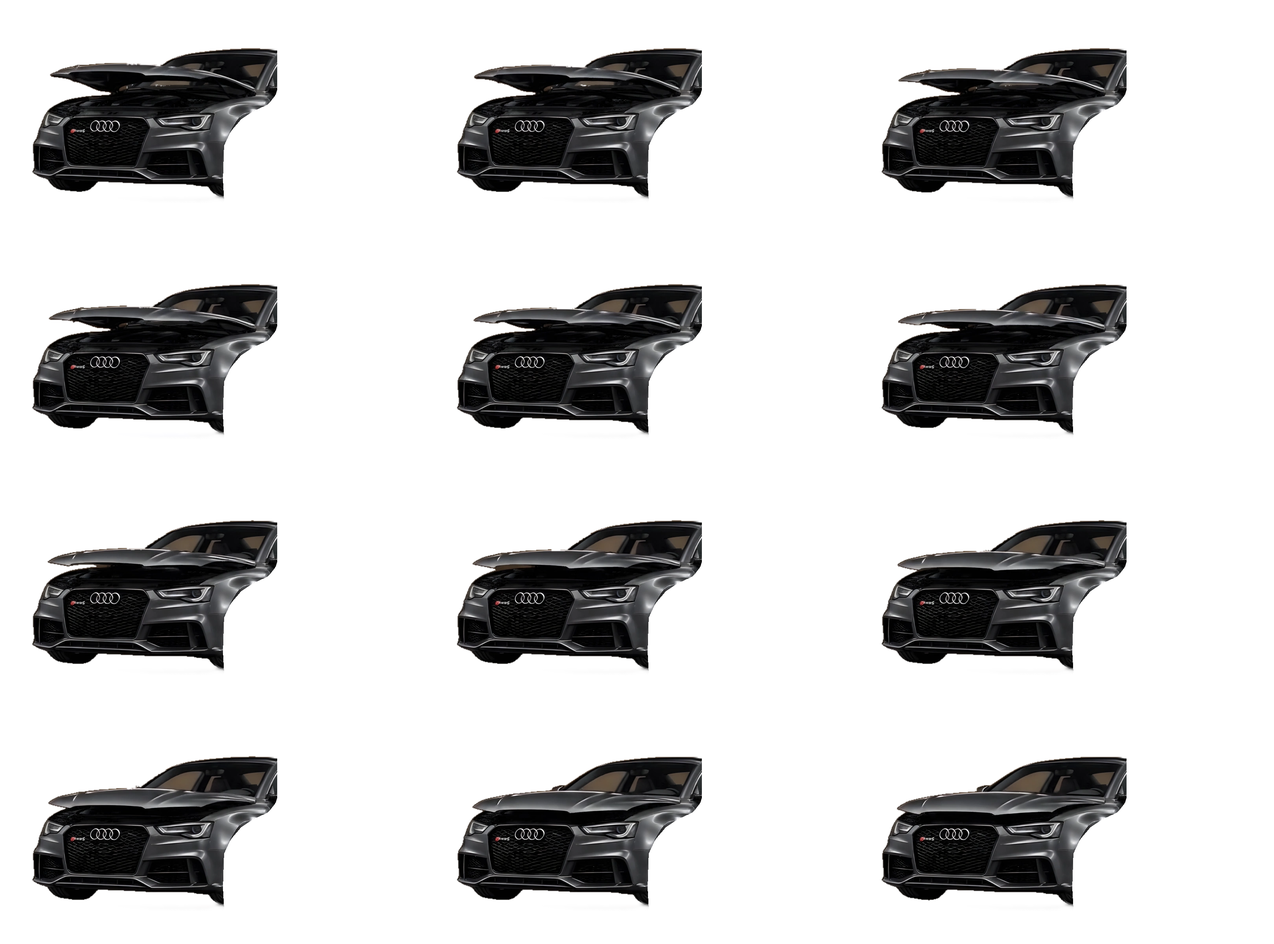
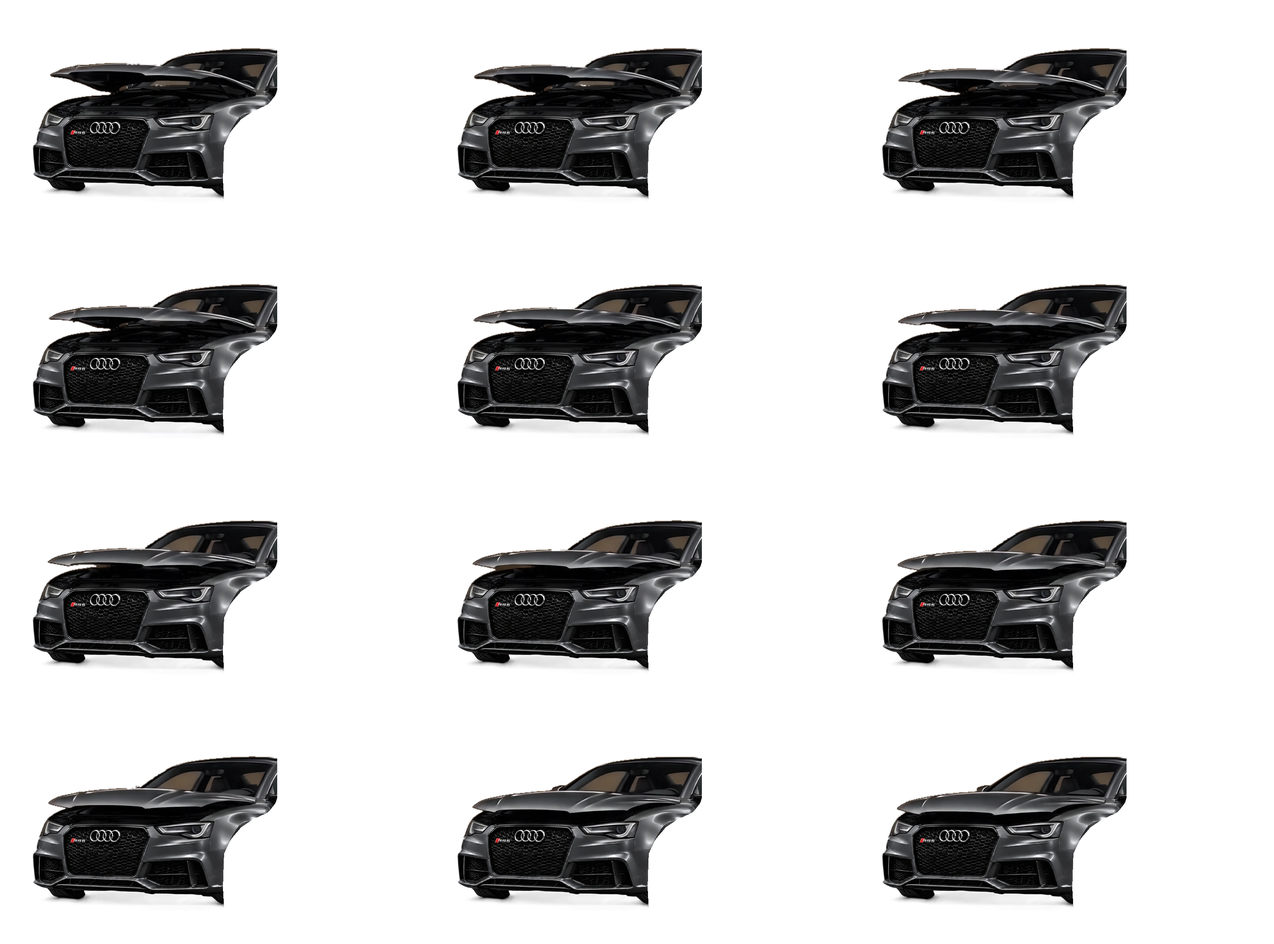
Restore original car details, reflective floor and desktop scale
Replace distorted video grille, RS5 badge, Audi rings and bumper pixels with the original photographic details. Repair the door panel and retain recorded hood geometry, smoke and sequential lights. Recover the old studio floor and remove the desktop size cap.

Validated 57 hood and 24 hero checks, original grille pixel comparison, floor transparency/stability, five viewport previews and delivery packaging.

diff --git a/Source/app.js b/Source/app.js
@@ -189,8 +189,9 @@
     const settled = heroLightsPlayed || reduceMotion();
     return `<div class="hero-visual" aria-hidden="true">
       <div class="hero-car rs5-real-hero ${settled ? 'lights-on' : 'lights-pending hood-loading'}" id="hero-car" data-phase="${settled ? 'complete' : 'loading'}" data-frame="poster">
-        <img class="rs5-poster" src="assets/car-hood-closed.webp?v=20261025-led-headlights" width="1080" height="600" alt="" fetchpriority="high" decoding="async">
-        <video class="rs5-source" id="rs5SourceVideo" data-src="assets/car-hood-animation.mp4?v=20261025-led-headlights" muted playsinline preload="none" tabindex="-1"></video>
+        <img class="rs5-floor" src="assets/car-floor.webp?v=20261025-restored-studio" width="1080" height="600" alt="" decoding="async">
+        <img class="rs5-poster" src="assets/car-hood-closed.webp?v=20261025-restored-studio" width="1080" height="600" alt="" fetchpriority="high" decoding="async">
+        <video class="rs5-source" id="rs5SourceVideo" data-src="assets/car-hood-animation.mp4?v=20261025-restored-studio" muted playsinline preload="none" tabindex="-1"></video>
         <canvas id="rs5HeroCanvas" width="1080" height="600" class="rs5-canvas"></canvas>
         <canvas width="1080" height="840" class="rs5-smoke"></canvas>
       </div>
@@ -211,9 +212,9 @@
       heroRenderer = window.WHHood?.create({
         canvas: $('.rs5-canvas', car), smokeCanvas: $('.rs5-smoke', car), video: $('.rs5-source', car),
         frames: {
-          led: 'assets/car-led.webp?v=20261025-led-headlights', ledAt: 2.15, headlightsAt: 2.85,
-          base: 'assets/car-studio-base.webp?v=20261025-led-headlights',
-          sources: [1,2,3,4].map((part) => `assets/car-hood-frames-${part}.webp?v=20261025-led-headlights`),
+          led: 'assets/car-led.webp?v=20261025-restored-studio', ledAt: 2.15, headlightsAt: 2.85,
+          base: 'assets/car-studio-base.webp?v=20261025-restored-studio',
+          sources: [1,2,3,4].map((part) => `assets/car-hood-frames-${part}.webp?v=20261025-restored-studio`),
           width: 1080, height: 600, columns: 3, perSheet: 12, count: 48, fps: 24
         },
         onPhase: (phase) => {

diff --git a/Source/styles.css b/Source/styles.css
@@ -148,6 +148,8 @@ html[dir=ltr] .hero{background-image:radial-gradient(ellipse 58% 55% at 68% 52%,
 .hero-visual{position:relative;z-index:1;min-width:0;direction:ltr}
 .hero-visual::before{content:"";position:absolute;inset:-18% -14% -8%;z-index:0;pointer-events:none;background:radial-gradient(ellipse 44% 34% at 52% 38%,rgba(242,195,134,.36) 0%,rgba(204,142,82,.22) 38%,rgba(132,82,44,.08) 68%,transparent 88%),radial-gradient(ellipse 66% 52% at 50% 48%,rgba(178,116,64,.30) 0%,rgba(110,66,36,.15) 54%,transparent 82%),radial-gradient(ellipse 74% 18% at 51% 84%,rgba(198,138,80,.18) 0%,transparent 72%);filter:blur(10px);transform:translateZ(0)}
 .hero-car{position:relative;z-index:1;width:100%;max-width:520px;margin:0 auto;aspect-ratio:720/400;isolation:isolate;user-select:none;pointer-events:none}
+.rs5-floor{position:absolute;inset:0;z-index:-1;width:100%;height:100%;display:block;pointer-events:none}
+@media (min-width:1101px){.hero-car{width:110%;max-width:none;margin-inline:-5%}}
 .hero-car::before{content:"";position:absolute;inset:0;z-index:-1;pointer-events:none;background:radial-gradient(ellipse 42% 5% at 49% 82%,rgba(5,2,0,.48),rgba(5,2,0,.18) 58%,transparent 100%),radial-gradient(ellipse 10% 2% at 58% 83%,rgba(0,0,0,.5),transparent 100%),radial-gradient(ellipse 10% 2% at 15% 80%,rgba(0,0,0,.4),transparent 100%),radial-gradient(ellipse 7% 2% at 86% 76%,rgba(0,0,0,.4),transparent 100%);filter:blur(3px)}
 .hero-car .rs5-poster{position:relative;width:100%;height:100%;max-width:none;display:block;transform:none;opacity:1}
 .rs5-canvas{position:absolute;inset:0;width:100%;height:100%;display:block;transform:none;opacity:1}
@@ -173,6 +175,7 @@ html[dir=rtl] .hero-specialism{justify-content:flex-end}
 .brand-line .lbl{letter-spacing:0;text-transform:none;font-family:var(--f-body);color:var(--muted);font-style:normal;font-weight:600}
 @media (max-width:1100px) and (min-width:761px){
   .hero-grid{padding-inline:28px;grid-template-columns:minmax(0,1fr) minmax(0,1.1fr)}
+  .hero-car{max-width:none}
   .hero h1{font-size:36px}
 }
 @media (max-width:760px){

diff --git a/Source/index.html b/Source/index.html
@@ -10,13 +10,13 @@
 <link rel="preconnect" href="https://fonts.googleapis.com">
 <link rel="preconnect" href="https://fonts.gstatic.com" crossorigin>
 <link rel="stylesheet" href="https://fonts.googleapis.com/css2?family=IBM+Plex+Mono:wght@400;500;600&family=IBM+Plex+Sans+Arabic:wght@400;500;600;700&display=swap">
-<link rel="stylesheet" href="styles.css?v=20261025-led-headlights">
+<link rel="stylesheet" href="styles.css?v=20261025-restored-studio">
 </head>
 <body>
 <div id="app"><noscript>مركز وائل حداد لصيانة المركبات الألمانية · البيادر، المنطقة الصناعية، مقابل أدوية الحكمة · 0795866455 · 0790984614</noscript></div>
 <script src="data.js"></script>
-<script src="hood-motion.js?v=20261025-led-headlights"></script>
-<script src="app.js?v=20261025-led-headlights"></script>
+<script src="hood-motion.js?v=20261025-restored-studio"></script>
+<script src="app.js?v=20261025-restored-studio"></script>
 <script src="admin.js"></script>
 </body>
 </html>

diff --git a/Source/tools/render-car-frames.py b/Source/tools/render-car-frames.py
@@ -36,6 +36,21 @@ sheet = Image.open(reference_path).convert('RGBA')
 if sheet.size != (size[0]*reference['columns'], size[1]*reference['rows']):
     raise ValueError('Reference atlas dimensions do not match calibration')
 
+def source_frame(index):
+    x = (index % reference['columns'])*size[0]
+    y = (index // reference['columns'])*size[1]
+    return sheet.crop((x, y, x+size[0], y+size[1]))
+
+# The recorded grille/text changes shape in the footage. Restore the original
+# photographic fascia, while leaving the hood, engine and lamps untouched.
+fascia = Image.new('L', size)
+ImageDraw.Draw(fascia).polygon([tuple(point) for point in cal['fascia_polygon']], fill=255)
+fascia = fascia.filter(ImageFilter.GaussianBlur(cal['fascia_feather_px']))
+# Transfer only the broad positive light bloom, not the video's grille lines.
+beam = ImageChops.subtract(source_frame(47).convert('RGB'), source_frame(46).convert('RGB'))
+beam = beam.filter(ImageFilter.GaussianBlur(cal['beam_blur_px']))
+body_lit = Image.merge('RGBA', (*ImageChops.add(body.convert('RGB'), beam).split(), body.getchannel('A')))
+
 # Preserve the complete recorded mechanism in one camera coordinate system.
 # Only the join to the photographic door/wheel/rear body is feathered.
 front = Image.new('L', size)
@@ -46,10 +61,9 @@ empty = Image.new('RGBA', size)
 base = Image.composite(empty, body, ownership)
 frames, motion = [], []
 for index in range(cal['count']):
-    x = (index % reference['columns'])*size[0]
-    y = (index // reference['columns'])*size[1]
-    native = sheet.crop((x, y, x+size[0], y+size[1]))
+    native = source_frame(index)
     combined = Image.composite(native, body, front)
+    combined = Image.composite(body_lit if index == cal['count']-1 else body, combined, fascia)
     # Disjoint pixel ownership lets transparent recorded gaps clear the closed
     # photograph underneath, rather than revealing a duplicate bonnet.
     overlay = Image.composite(combined, empty, ownership)

diff --git a/Source/MAINTENANCE-AR.md b/Source/MAINTENANCE-AR.md
@@ -98,28 +98,29 @@ bash Source/tools/package-store.sh
 
 الأسماء في صف الماركات إنجليزية في اللغتين، بالترتيب `Audi` ثم `Volkswagen` ثم `Porsche`، مع شعار كل اسم. القائمة `.hero-specialism` لها `dir="ltr"`؛ لا تعكس ترتيب العناصر مع RTL. صور الشعارات لها `alt=""` لأن الاسم مكتوب بجانبها، لتجنب تكراره لقارئ الشاشة. لا تضف مقدمة «متخصصين» أو `Specialists` إلى هذا الصف.
 
-ملفات الشعارات الرسمية محفوظة كما هي في المصدر؛ يعرض شعار Audi بإنهاء كروم معدني ثلاثي الأبعاد وشعار Volkswagen بالقاعدة الدائرية الزرقاء الملكية والكروم الأصليين مباشرة فوق الخلفية البنية، ويحتفظ شعار Porsche بألوان درعه الأصلية دون فلاتر. العناوين فوق الأسطح الداكنة بلون شامبانيا دافئ `#E8CFA4` مع لمعة معدنية هادئة، والعنوان الفرعي في الواجهة بلاتيني ناعم `#DDD4C7` والنص الثانوي `#CFC8BE`؛ عناوين الأسطح البيج في الوضع الفاتح تبقى برونزية داكنة للتباين. خلفية السيارة تتضمن هالة إضاءة دافئة في `.hero-visual::before`، وإضاءة المصابيح مدمجة في الإطار النهائي المعد محلياً. صور السيارة وطبقات الغطاء شفافة خارج حدودها، وتظهر خلفها ألوان الموقع نفسها دون مستطيل أو قناع تلاشي. ظل أرضي ناعم في `.hero-car::before` يثبت العجلات. الخطوط والأحجام وتوزيع النص لم تتغير.
+ملفات الشعارات الرسمية محفوظة كما هي في المصدر؛ يعرض شعار Audi بإنهاء كروم معدني ثلاثي الأبعاد وشعار Volkswagen بالقاعدة الدائرية الزرقاء الملكية والكروم الأصليين مباشرة فوق الخلفية البنية، ويحتفظ شعار Porsche بألوان درعه الأصلية دون فلاتر. العناوين فوق الأسطح الداكنة بلون شامبانيا دافئ `#E8CFA4` مع لمعة معدنية هادئة، والعنوان الفرعي في الواجهة بلاتيني ناعم `#DDD4C7` والنص الثانوي `#CFC8BE`؛ عناوين الأسطح البيج في الوضع الفاتح تبقى برونزية داكنة للتباين. خلفية السيارة تتضمن هالة إضاءة دافئة في `.hero-visual::before`، وإضاءة المصابيح مدمجة في الإطار النهائي المعد محلياً. صور السيارة وطبقات الغطاء شفافة خارج حدودها، وتظهر خلفها ألوان الموقع نفسها دون مستطيل. أرضية الاستوديو الأصلية وانعكاسها في `.rs5-floor`، بصورة مستقلة ذات حواف شفافة، أسفل السيارة مباشرة؛ يضيف الظل الناعم في `.hero-car::before` تماس العجلات. الخطوط والأحجام وتوزيع النص لم تتغير.
 
 ## الواجهة الأولى وحركة غطاء السيارة
 
-السيارة صورة توضيحية وليست توثيقاً لسيارة زبون أو تجهيزات المركز. تأتي مقدمتها كوحدة واحدة من الفيديو السابق: الغطاء وحجرة المحرك وحواف الرفارف وقاعدة الزجاج والمصابيح والشبك والصدام. تحتفظ هذه المنطقة بمنظور الفيديو وتتابع إطاراته؛ لا يُعزل الغطاء ليلائم صورة من منظور مختلف، ولا تُضاف حجرة محرك من صورة أخرى. تأتي الأجزاء الثابتة، ومنها العجلتان والباب والخلف، من الصورة الأصلية الحادة بعد ملاءمتها مرة واحدة لمنظور الفيديو. لا تتحرك هذه الصورة أثناء التشغيل. بعد قفل الغطاء تظهر شرائطLEDأولاً، ثم إضاءة المصابيح الرئيسية من الإطار المضاء الأصلي في الفيديو، وتثبت هذه النهاية دائماً.
+السيارة صورة توضيحية وليست توثيقاً لسيارة زبون أو تجهيزات المركز. تبقى منطقة الغطاء وحجرة المحرك وحواف الرفارف وقاعدة الزجاج والمصابيح من الفيديو السابق، بمنظوره وتتابع إطاراته؛ لا يُعزل الغطاء ليلائم صورة من منظور مختلف، ولا تُضاف حجرة محرك من صورة أخرى. تُستعاد منطقة الشبك وحلقات Audi وشارة RS5 والصدام السفلي من الصورة الأصلية الحادة لتجنب التفاصيل المشوهة في الفيديو. الأجزاء الثابتة، ومنها العجلتان والباب والخلف، من الصورة الأصلية بعد ملاءمتها مرة واحدة لمنظور الفيديو؛ أُصلح سطح الباب من الصورة الأصلية دون تغيير مواضع العجلات والزجاج. لا تتحرك هذه الأجزاء أثناء التشغيل. بعد قفل الغطاء تظهر شرائطLEDأولاً، ثم إضاءة المصابيح الرئيسية من الإطار المضاء الأصلي في الفيديو مع توهجها على الشبك المستعاد، وتثبت هذه النهاية دائماً.
 
 حُسّن وضوح إطارات المقدمة محلياً، لكن أصلها فيديو بعرض720px، وليس تصويراً جديداً عالي الدقة. قد تبقى فروق في الملمس أو التفاصيل من الفيديو نفسه؛ لا تثبت فحوص التشغيل وحدها واقعية الصورة، ولذلك تلزم مراجعة التسلسل بصرياً. لا يحتاج التشغيل إلى قص CSS أو مجسم أو إعادة إسقاط هندسي داخل المتصفح.
 
 | أصل التشغيل | الوصف |
 |---|---|
 | `assets/car-studio-base.webp` | قاعدة شفافة1080×600 للأجزاء الثابتة فقط؛ المنطقة المتغيرة خالية تماماً حتى لا يبقى الغطاء المغلق خلف الغطاء المصور. |
+| `assets/car-floor.webp` | أرضية الاستوديو وانعكاسها من الصورة القديمة، ملائمة لمنظور الجسم وثابتة في طبقة مستقلة1080×600 ذات حواف شفافة. |
 | `assets/car-hood-animation.mp4` | الفيديو السابق H.264 بلا صوت،720×400،24fps،3.5s؛ ساعة تشغيل فقط، مع إطالة الوقفة الأخيرة. بكسلات المقدمة محفوظة مسبقاً في الأطالس ولا يرسم المتصفح خلفية الفيديو. |
 | `assets/car-hood-open.webp` | أول صورة مركبة شفافة1080×600 من القاعدة مع المقدمة المفتوحة، مطابقة للرسم. |
 | `assets/car-hood-closed.webp` | الصورة النهائية المركبة الشفافة1080×600، مغلقة ومضاءة؛ بديل ثابت عند تقليل الحركة أو تعذر التشغيل. |
 | `assets/car-led.webp` | طبقة شفافة1080×600 لشرائطLEDداخل المصباحين فقط، محضرة محلياً من مسارات مضبوطة على الإطار المغلق46؛ تبقى عدستا المصابيح الرئيسية داكنتين في هذه المرحلة. |
-| `assets/car-hood-frames-1.webp` إلى `car-hood-frames-4.webp` | أربعة أطالس طبقات RGBA، كل منها3240×2400 وفيه12إطاراً بترتيب3أعمدة×4صفوف؛ الخلية1080×600. تشمل المقدمة المصورة كاملة والمنطقة الممزوجة مع الأجزاء الثابتة، لا الغطاء وحده. الإضاءة من إطار الفيديو النهائي نفسه. |
+| `assets/car-hood-frames-1.webp` إلى `car-hood-frames-4.webp` | أربعة أطالس طبقات RGBA، كل منها3240×2400 وفيه12إطاراً بترتيب3أعمدة×4صفوف؛ الخلية1080×600. تشمل المقدمة المصورة والشبك والشارات والصدام السفلي المستعادة والمنطقة الممزوجة مع الأجزاء الثابتة، لا الغطاء وحده. إضاءة المصابيح من إطار الفيديو النهائي نفسه. |
 
 ### إعادة إخراج الإطارات محلياً
 
 `tools/render-car-frames.py` يقرأ `tools/car-hood-calibration.json` وصورة `assets/car-body-aligned.webp` وأطلس `assets/hood-reference.webp`. صورة الجسم الشفافة1080×600 مدخل محضر من أصل الاستوديو1672×941 بعد محاذاة منظور وتعديل موضعي ناعم ثابت ليلائم الفيديو. هذه الملاءمة خطوة تحضير سابقة؛ لا يعاد حسابها لكل إطار ولا تُطبق على الغطاء المصور. أصل الاستوديو `assets/coupe-studio.webp` محفوظ في المصدر أيضاً، لكن إعادة إخراج أصول التشغيل تستخدم الجسم الملائم المحضر.
 
-يحفظ أطلس المرجع48إطاراً شفافاً1080×600 بترتيب6أعمدة×8صفوف، وحجمه6480×4800. تشمل الإطارات0..46 تتابع الإغلاق السابق، والإطار47 حالة الإغلاق والإضاءة الأصلية من الفيديو. تصف المعايرة منطقة المقدمة الواسعة وحد مزج ناعماً مقداره6px. يركب السكربت هذه المنطقة على الجسم الملائم دون تغيير هندسة الغطاء أو اختراع محرك، ثم يقسم الصورة المركبة إلى قاعدة وأجزاء متغيرة ذات ملكية بكسلات منفصلة. تبقى شفافية الفراغات المكشوفة حقيقية؛ لا يمكن لقاعدة مغلقة أن تظهر خلالها. لا يوجد انتقال نهائي إلى غطاء من صورة أخرى. شرائطLEDالوسيطة مرسومة محلياً على الإطار46؛ مصدر الإضاءة الرئيسية النهائية هو الإطار47من الفيديو نفسه.
+يحفظ أطلس المرجع48إطاراً شفافاً1080×600 بترتيب6أعمدة×8صفوف، وحجمه6480×4800. تشمل الإطارات0..46 تتابع الإغلاق السابق، والإطار47 حالة الإغلاق والإضاءة الأصلية من الفيديو. تصف المعايرة منطقة المقدمة الواسعة وحد مزج ناعماً مقداره6px. يركب السكربت هذه المنطقة على الجسم الملائم دون تغيير هندسة الغطاء أو اختراع محرك، ويستعيد الشبك والشارات والصدام السفلي من صورة الجسم بقناع ذي حافة2px. في الإطار47 يُضاف فرق الإضاءة الموجب من المصابيح المصورة، بتنعيم6px، فوق هذه المنطقة المستعادة كي يبقى توهج المصابيح طبيعياً دون إعادة تفاصيل الفيديو المشوهة. ثم يقسم الصورة المركبة إلى قاعدة وأجزاء متغيرة ذات ملكية بكسلات منفصلة. تبقى شفافية الفراغات المكشوفة حقيقية؛ لا يمكن لقاعدة مغلقة أن تظهر خلالها. لا يوجد انتقال نهائي إلى غطاء من صورة أخرى. شرائطLEDالوسيطة مرسومة محلياً على الإطار46؛ مصدر الإضاءة الرئيسية النهائية هو الإطار47من الفيديو نفسه.
 
 يحفظ أطلس المرجع وصورة الجسم الملائم دون فقد. تستخدم أطالس التشغيل ضغط WebP عالي الجودة بدرجة97 مع قناةalpha دون فقد لتقليل التنزيل؛ يفك السكربت الأطالس المخرجة ثم يولد صورتي البداية والنهاية وصور المراجعة من خلاياها مع القاعدة، حتى تطابق الوسائط التي يرسمها المتصفح.
 
@@ -131,13 +132,13 @@ python3 Source/tools/render-car-frames.py
 
 يمكن تحديد مجلد مخرجات بواسطة `--output /absolute/path/to/output`، ومجلد مراجعة بواسطة `--review /absolute/path/to/review`. الخيار `--reference-frames /absolute/path/to/frames` يستورد48إطار PNG محضراً بأسماء001.png إلى048.png بدلاً من أطلس المرجع المضمن؛ الاستعمال العادي لا يحتاج الملفات المحلية السابقة. مدخلات إعادة الإخراج المضمنة1080×600. يظل أصل PNG القديم اختيارياً ولا تحتاجه هذه العملية. عند تغيير منطقة المزج أو الوسائط راجع الفتح وتسع وضعيات إغلاق والنهاية، واتصال المفصلات بالحجرة والرفارف وثبات العجلتين والباب وعدم ظهور قص أو قفزة منظور. إخراج الإطارات محلي؛ لا يحتاج إلى خدمة فيديو خارجية.
 
-`heroCar()` يحتفظ بإطار ثابت بنسبة720/400، عرضه100% وبحد أقصى520px حسب التصميم المعتمد. `rs5SourceVideo` مصدر مخفي بصرياً بحجم1px (وليس display:none)، و`rs5HeroCanvas` بقناةalpha يرسم القاعدة الثابتة أولاً ثم خلية المقدمة المحددة بالتوقيت، وطبقةLEDعندما يحين دورها. لا يوجد تحريك أو تلاشي لعنصر السيارة أو قناع على إطارها. الظل الأرضيCSS مستقل. صور الاستوديو والجسم الملائم وأطلس المرجع لا تدخلRUNTIME؛ القاعدة والأطالس المخرجة وطبقةLEDهي الصور المطلوبة وقت التشغيل.
+`heroCar()` يحتفظ بإطار ثابت بنسبة720/400. على الكمبيوتر بعرض1101pxفأكثر، يمتد إلى110%من عمود الصورة مع هامش−5%لإعادة حجم السيارة الكبير القديم؛ عند1366pxيبلغ الإطار نحو844px. في النطاق761..1100pxيملأ العمود دون حد520px، وعلى الموبايل حتى760pxيبقى عرضه100%وبحد أقصى520px. لا تتغير شبكة النصوص أو تخطيط الموبايل. صورة `.rs5-floor` المطلقة تشغل الإطار نفسه خلف السيارة، فلا تتحرك الأرضية أثناء الإغلاق. `rs5SourceVideo` مصدر مخفي بصرياً بحجم1px (وليس display:none)، و`rs5HeroCanvas` بقناةalpha يرسم القاعدة الثابتة أولاً ثم خلية المقدمة المحددة بالتوقيت، وطبقةLEDعندما يحين دورها. لا يوجد تحريك أو تلاشي لعنصر السيارة أو قناع على إطارها. الظل الأرضيCSS مستقل. صور الاستوديو والجسم الملائم وأطلس المرجع لا تدخلRUNTIME؛ الأرضية والقاعدة والأطالس المخرجة وطبقةLEDهي الصور المطلوبة وقت التشغيل.
 
 تضيف طبقةCanvasشفافة مستقلة `.rs5-smoke` دخاناً خفيفاً من منطقة المحرك أثناء الإغلاق. هذا مؤثر مرسوم محلياً بالكود، مستوحى من المقطع المرجعي، وليس بكسلات دخان مقتصة منه. تُحضّر أربع صور كثافة صغيرة مرة واحدة وتُرسم منها16نفثة بمواقع وشفافية محسوبتين من توقيت الفيديو نفسه؛ لا يحتاج المؤثر إلى أصل إضافي أو مؤقت أو حلقة حركة مستقلة. تمتد الطبقة240px فوق إطار السيارة بمقياس الرسم1080×600 حتى يرتفع الدخان دون قطع عند حافة الغطاء. تكون فارغة عند البداية، ويبدأ التلاشي عند1.25s ويختفي الدخان عند2s قبل إضاءةLED، وتُمسح الطبقة وتُحرر صورها عند الإكمال أو الفشل أو الإلغاء. يتوقف ويستأنف مع ساعة الغطاء، ولا يظهر عند تقليل الحركة أو عرض الصورة النهائية البديلة.
 
 `startHeroLights()` يحتفظ باسمه لتوافق بقية التطبيق، ويبدأ ساعة الفيديو. `WHHood.create()` ينتظر فك القاعدة والأطالس الأربعة وطبقةLEDوأول إطار مؤقت، ثم يعرض الفتح المركب؛ لا يظهر إطار مغلق ثم يقفز للفتح. عند ظهور55% من الإطار عبر IntersectionObserver، ينتظر300ms مرئية ثم يشغّل الساعة المكتومة. يستخدم requestVideoFrameCallback حيث يتوفر، وrequestAnimationFrame بديلاً. عند النهاية يوقف الفيديو ويحفظ آخر تركيب مفكوك فعلياً (زمنه duration−1/24 بينما currentTime قد يساوي duration) ثم يثبته دائماً. إذا لم تكن النهاية مفكوكة بعد، يستخدم طلب توقيت النهاية وفكها بديلاً؛ لا يعيد طلب seek دون حاجة بعد نهاية تشغيل طبيعية. `data-phase` ينتقل loading→open→closing→complete و`data-frame` يحدد video أوposter؛ `canvas.dataset.mediaTime` يصف التوقيت و`frameIndex` يحدد الخلية0..47. يصل الإغلاق إلى الإطار46عند46/24s، ويثبت هذا الإطار داكناً حتى2.15s. عندها تظهر شرائطLEDبتدرج120msفوق الإطار المغلق نفسه، دون إضاءة العدستين. عند2.85sيُختار الإطار47المصور بالمصابيح الرئيسية ويثبت حتى نهاية المؤقت3.5s. يحدد `canvas.dataset.lightStage` المراحلoff→led→headlights. تُحرر صور القاعدة والأطالس وطبقةLEDفور رسم النهاية أو الإلغاء؛ الأطالس وحدها تقارب124MB مفكوكة أثناء التشغيل، دون الاحتفاظ بها بعده.
 
-التشغيل مرة واحدة في عمر الصفحة. تغيير اللغة أو القائمة أو العودة من الحجز يعرض الصورة النهائية نفسها دون إعادة الساعة أو تنزيل القاعدة والأطالس. تقليل الحركة يعرض الصورة النهائية مباشرة، وتغييره أثناء التشغيل يوقف الحركة. عند حظر التشغيل التلقائي أو فشل تحميل الفيديو أو القاعدة أو إحدى صور الأطالس أو طبقةLEDأو غياب Canvas يعود العرض بهدوء للصورة النهائية المضيئة. إخفاء الصفحة يوقف المؤقت والتشغيل ويستأنف بعد عودتها؛ تغيير المسار يحرر المصدر والموارد والمؤقتات ومستمعي الأحداث ويلغي إطارات الرسم. لا تضف حلقة loop أو autoplay أو تحميل أصول الحركة عند تقليل الحركة. روابط التطبيق والأصول تستخدم الإصدار `20261025-led-headlights` لتجاوز التخزين القديم عند النشر.
+التشغيل مرة واحدة في عمر الصفحة. تغيير اللغة أو القائمة أو العودة من الحجز يعرض الصورة النهائية نفسها دون إعادة الساعة أو تنزيل القاعدة والأطالس. تقليل الحركة يعرض الصورة النهائية مباشرة، وتغييره أثناء التشغيل يوقف الحركة. عند حظر التشغيل التلقائي أو فشل تحميل الفيديو أو القاعدة أو إحدى صور الأطالس أو طبقةLEDأو غياب Canvas يعود العرض بهدوء للصورة النهائية المضيئة. إخفاء الصفحة يوقف المؤقت والتشغيل ويستأنف بعد عودتها؛ تغيير المسار يحرر المصدر والموارد والمؤقتات ومستمعي الأحداث ويلغي إطارات الرسم. لا تضف حلقة loop أو autoplay أو تحميل أصول الحركة عند تقليل الحركة. روابط التطبيق والأصول تستخدم الإصدار `20261025-restored-studio` لتجاوز التخزين القديم عند النشر.
 
 مقدمة النصوص تتلاشى إلى الظهور مرة واحدة في عمر الصفحة، ولمعة معدنية واحدة تمر عبر العنوان الرئيسي؛ `heroIntroPlayed` يمنع تكرارهما عند تغيير اللغة أو القائمة أو الرجوع من الحجز. تحويم الأزرار يكبرها إلىscale(1.02) دون تغيير التخطيط. جميع هذه الحركات معطلة عند تقليل الحركة ويظل النص ظاهراً.
 

diff --git a/Source/tests/README.md b/Source/tests/README.md
@@ -28,12 +28,12 @@ npm run test:hood
 
 - `smoke.mjs`: عددها 88 حالة؛ 11 مساراً بالعربي والإنجليزي، 390×664 و1366×768، فاتح وغامق. تفحص أخطاء الصفحة والكونسول والتجاوز الأفقي وتحفظ لقطات كاملة.
 - `flows.mjs`: الفحوص الوظيفية الـ22: الحجز ورابط واتساب، عدم استبدال زر الحجز أثناء الكتابة، الأرقام العربية، الحجوزات ولوحة التحكم، رفع صورة الفحص، اختيار القطعة والموافقة، حالة السيارة، إخفاء العرض وإعادة البيانات، الإنجليزية والتخزين المقفول.
-- `hero.mjs`: ظهور النص ولمعته وعدم تكرارهما، انتظار فك الفيديو، تجمد إطاره النهائي، عدم إعادة التشغيل عند تغيير اللغة أو فتح القائمة والرجوع من الحجز، تقليل الحركة، تحميل الشعارات بألوانها وترتيبها، وبقاء العنوان والحجز والسيارة في أول شاشة. يتضمن صف الماركات عند320 و768px.
-- `hood.mjs`: تطابق أول إطارCanvasمع تركيب الأجزاء الثابتة وخلية المقدمة المصورة، وشفافية الخلفية، واختلاف الفتح والإغلاق، ومطابقة النهاية للصورة البديلة. يفحص وجود محتوى مصور معتم في مناطق الحجرة وقاعدة الزجاج والشبك ضمن الطبقة المتحركة، وثبات تفاصيل العجلتين والباب بالبكسل، واختيار الخلايا0..47، وتجميد النهاية، وثبات إطار العرض، ومهلة300ms. يغطي تأخير فك الفيديو أو القاعدة، وفشلها أو تلفها أو غياب أطلس أو طبقةLEDأو رفض التشغيل التلقائي، وإلغاء التشغيل عند التنقل أو تبديل اللغة وتقليل الحركة. لا يستخدم الفيديو مرجعاً لبكسلات الجسم؛ دوره ساعة تشغيل فقط.
+- `hero.mjs`: ظهور النص ولمعته وعدم تكرارهما، انتظار فك الفيديو، تجمد إطاره النهائي، عدم إعادة التشغيل عند تغيير اللغة أو فتح القائمة والرجوع من الحجز، تقليل الحركة، تحميل الشعارات بألوانها وترتيبها، وبقاء العنوان والحجز والسيارة في أول شاشة. يتحقق من الحجم الكبير للسيارة على الكمبيوتر1366px، وملاءمة الموبايل، وتحميل الأرضية ومحاذاتها للإطار. يتضمن صف الماركات عند320 و768px.
+- `hood.mjs`: تطابق أول إطارCanvasمع تركيب الأجزاء الثابتة وخلية المقدمة المصورة، وشفافية الخلفية، واختلاف الفتح والإغلاق، ومطابقة النهاية للصورة البديلة. يفحص وجود محتوى مصور معتم في مناطق الحجرة وقاعدة الزجاج والشبك ضمن الطبقة المتحركة، ومطابقة منطقة الشبك والشارات للصورة الأصلية الحادة عند الفتح والإغلاق قبل الإضاءة، وثبات تفاصيل العجلتين والباب بالبكسل، واختيار الخلايا0..47، وتجميد النهاية، وثبات إطار العرض والأرضية، وشفافية زوايا الأرضية ومهلة300ms. يغطي تأخير فك الفيديو أو القاعدة، وفشلها أو تلفها أو غياب أطلس أو طبقةLEDأو رفض التشغيل التلقائي، وإلغاء التشغيل عند التنقل أو تبديل اللغة وتقليل الحركة. لا يستخدم الفيديو مرجعاً لبكسلات الجسم؛ دوره ساعة تشغيل فقط.
 
 يفحص أيضاً ظهور دخان شفاف أثناء الإغلاق وخلو طبقته عند البداية والنهاية وتقليل الحركة. تبقى مقارنة بكسلات السيارة مستقلة عن طبقة الدخان حتى لا يخفي المؤثر تغير الجسم أو اختلاف الصورة النهائية.
 
-في إصدار `20261025-led-headlights` تتحقق عينات الرسم الفعلية من ثبات الإطار المغلق46أولاً، ثم مرحلةLEDعند2.15s، ثم المصابيح الرئيسية عند2.85s، وانتهاء الساعة3.5s. تقارن سطوع شرائطLEDوعدستي المصابيح بين المراحل: تضيء الشرائط وحدها في الوسط وتبقى العدستان داكنتين حتى المرحلة الأخيرة. تشمل فحوص تقليل الحركة ومنع إعادة التنزيل أصلLEDأيضاً، ويغطي فحص فشل تحميله العودة للصورة النهائية.
+في إصدار `20261025-restored-studio` تتحقق عينات الرسم الفعلية من ثبات الإطار المغلق46أولاً، ثم مرحلةLEDعند2.15s، ثم المصابيح الرئيسية عند2.85s، وانتهاء الساعة3.5s. تقارن سطوع شرائطLEDوعدستي المصابيح بين المراحل: تضيء الشرائط وحدها في الوسط وتبقى العدستان داكنتين حتى المرحلة الأخيرة. تشمل فحوص تقليل الحركة ومنع إعادة التنزيل أصلLEDأيضاً، ويغطي فحص فشل تحميله العودة للصورة النهائية. يظل سطح الشبك وشاراته من الصورة الأصلية، مع توهج المصابيح النهائي؛ مقارنة منطقة التفاصيل تسبق هذا التوهج.
 
 
 شغّل الفحوص على نسخة `Source/` بوضع `demo`. تفتح متصفحات جديدة ببيانات معزولة؛ لا تنقر زر واتساب ولا ترسل أي رسالة. صورة الرفع التجريبية تُنشأ في مجلد مؤقت للنظام وتُحذف بعد انتهاء الفحص. الخطوط الخارجية تحتاج اتصالاً بالإنترنت؛ أخطاء تحميلها تظهر ضمن النتائج.
@@ -50,6 +50,6 @@ node hero.mjs http://127.0.0.1:9000/ ./results-preview
 
 يستخدم التشغيل Chromium الذي ثُبّت بالأمر أعلاه. لاستخدام متصفح Chromium مثبت مسبقاً، عيّن `PW_CHROMIUM_EXECUTABLE_PATH` إلى ملفه التنفيذي؛ لا توجد مسارات جهاز ثابتة داخل الفحوص.
 
-تقارن الفحوص إطاراتCanvasبتركيب القاعدة مع خلايا الأطالس والصورة النهائية، وتتحقق من ثبات العجلات والباب وأبعاد عنصر العرض. فحص مناطق المقدمة يكشف رجوع طبقة غطاء صغيرة منفصلة، لكنه لا يثبت الواقعية أو صحة اتصال المفصلات. عند تعديل الوسائط راجع تسع وضعيات بصرياً للتأكد من اتصال الغطاء بحجرة المحرك وقاعدة الزجاج والرفارف، وعدم قطع العجلات أو ظهور حدود مزج أو قفزة منظور؛ وتحقق من بقاء النهاية مجمدة وتفاصيل الشعارات الأصلية.
+تقارن الفحوص إطاراتCanvasبتركيب القاعدة مع خلايا الأطالس والصورة النهائية، وتتحقق من ثبات العجلات والباب وأبعاد عنصر العرض. مقارنة الشبك بصورة الجسم الأصلية مستقلة عن أطالس التشغيل ولا تعتمد على قراءة اسم الشارة آلياً. فحص مناطق المقدمة يكشف رجوع طبقة غطاء صغيرة منفصلة، لكنه لا يثبت الواقعية أو صحة اتصال المفصلات. عند تعديل الوسائط راجع تسع وضعيات بصرياً للتأكد من اتصال الغطاء بحجرة المحرك وقاعدة الزجاج والرفارف، وعدم قطع العجلات أو ظهور حدود مزج أو قفزة منظور؛ وتحقق من بقاء النهاية مجمدة وتفاصيل الشعارات الأصلية. على الكمبيوتر قارن حجم السيارة والأرضية العاكسة بالصورة القديمة، وتحقق من بقاء الأرضية أسفل العجلات دون قص أو مستطيل ظاهر.
 
 راجع الدخان بصرياً أثناء الحركة على الموبايل والكمبيوتر: يبدأ من المحرك ويرتفع دون حافة مستطيلة أو قطع علوي، ويبقى خفيفاً ولا يحجب النصوص والشعارات، ثم يتلاشى قبل مرحلةLED. راجع قفل الغطاء قبل الإضاءة، ووضوح مرحلة الشرائط وحدها قبل تشغيل المصابيح الرئيسية. الدخان مرسوم محلياً بالكود، وليس جزءاً مقتطعاً من الفيديو.

diff --git a/Source/ASSET-SOURCES.md b/Source/ASSET-SOURCES.md
@@ -20,23 +20,24 @@
 
 ## صور الواجهة والرسومات المحلية
 
-السيارة أصل توضيحي للموقع، وليست صورة موثقة لسيارة عميل أو لمعدات المركز. مقدمة السيارة، بما فيها الغطاء وحجرة المحرك وقاعدة الزجاج والرفارف العلوية والمصابيح والشبك والصدام، من الفيديو السابق الذي أرسله صاحب المشروع. تبقى هذه العناصر معاً في منظور الفيديو وتتابع إطاراته. العجلتان والباب والخلف من الصورة الأصلية الحادة1672×941 بعد ملاءمتها مرة واحدة لمنظور الفيديو. حُسنت إطارات المقدمة محلياً؛ تظل تفاصيلها محدودة بالفيديو الأصلي ذي العرض720px، ولا يوصف الناتج بأنه تصوير جديد عالي الدقة.
+السيارة أصل توضيحي للموقع، وليست صورة موثقة لسيارة عميل أو لمعدات المركز. الغطاء وحجرة المحرك وقاعدة الزجاج والرفارف العلوية والمصابيح من الفيديو السابق الذي أرسله صاحب المشروع. تبقى هذه العناصر معاً في منظور الفيديو وتتابع إطاراته. استعيدت منطقة الشبك، وحلقات Audi وشارة RS5 والصدام السفلي من الصورة الأصلية الحادة1672×941 لتصحيح تشوه التفاصيل في الفيديو. العجلتان والباب والخلف من الصورة الأصلية أيضاً بعد ملاءمتها مرة واحدة لمنظور الفيديو؛ صُحح سطح الباب من الأصل مع إبقاء العجلات والزجاج في مواضعها. حُسنت إطارات الغطاء محلياً؛ تظل تفاصيلها محدودة بالفيديو الأصلي ذي العرض720px، ولا يوصف الناتج بأنه تصوير جديد عالي الدقة.
 
 | الملف | الوصف |
 |---|---|
 | `assets/car-studio-base.webp` | صورة تشغيل شفافة1080×600 للأجزاء الثابتة فقط؛ المنطقة المتغيرة خالية لمنع ظهور غطاء الصورة المغلق خلف المقدمة المتحركة. |
-| `assets/car-hood-frames-1.webp` إلى `car-hood-frames-4.webp` |48طبقة حركة شفافة معدة محلياً، بواقع12خلية1080×600 في كل أطلس3240×2400. تحتوي المقدمة المصورة ومنطقة مزجها مع الجسم الثابت؛ الإضاءة في الخلية الأخيرة من إطار الفيديو نفسه. |
+| `assets/car-floor.webp` | أرضية الاستوديو وانعكاس السيارة من بكسلات الصورة الأصلية قبل إزالة خلفيتها؛ أضيف لون دافئ ومحاذاة ثابتة للجسم وحواف شفافة. صورة محضرة1080×600 للتشغيل، وليست انعكاساً مصطنعاً بقلب السيارة. |
+| `assets/car-hood-frames-1.webp` إلى `car-hood-frames-4.webp` |48طبقة حركة شفافة معدة محلياً، بواقع12خلية1080×600 في كل أطلس3240×2400. تحتوي المقدمة المصورة ومنطقة مزجها مع الجسم الثابت، والشبك والشارات والصدام السفلي المستعادة من صورة الجسم؛ المصابيح وإضاءتها النهائية من الفيديو نفسه. |
 | `assets/car-hood-open.webp` و`assets/car-hood-closed.webp` | صورتا البداية والنهاية المركبتان1080×600 من القاعدة والطبقة المعنية؛ المغلقة والمضاءة بديل ثابت. |
 | `assets/car-hood-animation.mp4` | مشتق مقصوص ومختصر بلا صوت من فيديو أرسله صاحب المشروع؛720×400،24إطاراً/ثانية،3.5ثانية بعد إطالة الوقفة الأخيرة. يحتفظ به التشغيل كساعة زمنية فقط، دون رسم بكسلاته مباشرة. |
 | `assets/car-led.webp` | طبقة شفافة1080×600 محضرة محلياً من مسارات ضوئية على شرائط المصباحين في الإطار المغلق46. تخص مرحلةLEDالوسيطة فقط؛ لا تضيء عدستي المصابيح الرئيسية. |
 | `assets/coupe-studio.webp` | صورة الجسم التوضيحية الأصلية1672×941، محفوظة في المصدر. أصل `coupe-studio-master.png` اختياري إن توفر محلياً. |
-| `assets/car-body-aligned.webp` | صورة تحضير شفافة1080×600 من أصل الاستوديو، بعد ملاءمة ثابتة لمنظور الفيديو. لا تتحرك وقت التشغيل ولا تستخدم مقدمتها المغلقة في منطقة الفيديو. محفوظة في المصدر فقط. |
+| `assets/car-body-aligned.webp` | صورة تحضير شفافة1080×600 من أصل الاستوديو، بعد ملاءمة ثابتة لمنظور الفيديو وتصحيح سطح الباب من الأصل. مصدر التفاصيل الثابتة والشبك والشارات والصدام السفلي؛ لا يستخدم غطاؤها المغلق. محفوظة في المصدر فقط. |
 | `assets/hood-reference.webp` | أطلس تحضير من48إطار فيديو محسن وشفاف1080×600، بترتيب6×8، وحجم6480×4800. محفوظ في حزمة المصدر لإعادة إخراج أصول التشغيل؛ لا يُحمّل في المتصفح ولا يدخل حزمة الرفع العامة. |
 | `tools/render-car-frames.py` و`tools/car-hood-calibration.json` | سكربت ومعايرة التحضير المحلي لمنطقة المقدمة الواسعة وحد المزج. يقسم الناتج إلى قاعدة وأجزاء متغيرة منفصلة البكسلات مع شفافية حقيقية. مضمنان في المصدر، ويكفي Python3 مع Pillow لإعادة إخراج الأصول. |
 | `assets/favicon.svg` | علامة WH المرسومة للموقع. |
 | رسومات تقرير الفحص داخل `app.js` | رسومات خطية توضيحية؛ يظهر وصف «رسم توضيحي» عند استخدامها بدلاً من صورة مرفوعة. |
 
-لا يُعزل الغطاء المصور لإعادة إسقاطه على فتحة من منظور مختلف، ولا تستخدم الحركة حجرة محرك من صورة أخرى أو انتقالاً نهائياً إلى غطاء الصورة الأصلية. مصدر الحجرة والغطاء والمقدمة واحد طوال الإغلاق. يحتفظ الجزء المصور بتغيرات التفاصيل والإضاءة الموجودة في الفيديو؛ الأجزاء الحادة خارج هذه المنطقة ثابتة. يُرسم التركيب داخلCanvas بقناةalpha، والظل الأرضيCSSناعم، وتظهر خلفية الموقع نفسها حول السيارة دون مستطيل بني مصور أو قناع تلاشي. لا يوجد قص CSS أو مجسم غطاء وقت التشغيل. لا تعني سلامة التوقيت والشفافية وحدها تحقق الواقعية؛ راجع اتصال المفصلات والحجرة والرفارف عبر التسلسل بصرياً.
+لا يُعزل الغطاء المصور لإعادة إسقاطه على فتحة من منظور مختلف، ولا تستخدم الحركة حجرة محرك من صورة أخرى أو انتقالاً نهائياً إلى غطاء الصورة الأصلية. مصدر الحجرة والغطاء واحد طوال الإغلاق. يحتفظ الجزء المصور بتغيرات التفاصيل والإضاءة الموجودة في الفيديو؛ الشبك والشارات والصدام السفلي ثابتة من الصورة الأصلية، ويضاف إليها فرق توهج المصابيح المصور عند النهاية دون إعادة تشوه تفاصيل الفيديو. يُرسم التركيب داخلCanvas بقناةalpha، وتُعرض الأرضية المصورة ثابتة في صورة مستقلة تحته مع ظلCSSناعم. تحافظ حواف الأرضية الشفافة على اتصالها بالخلفية البنية دون مستطيل. لا يوجد قص CSS أو مجسم غطاء وقت التشغيل. لا تعني سلامة التوقيت والشفافية وحدها تحقق الواقعية؛ راجع اتصال المفصلات والحجرة والرفارف وحدود الاستعادة عبر التسلسل بصرياً.
 
 أطلس المرجع وصورة الجسم الملائم محفوظان دون فقد. أطالس التشغيل مضغوطة بصيغة WebP بدرجة97 مع شفافية دون فقد؛ صورتا البداية والنهاية وصور المراجعة تُركب من خلايا التشغيل المفكوكة مع القاعدة لضمان مطابقتها للرسم.
 
